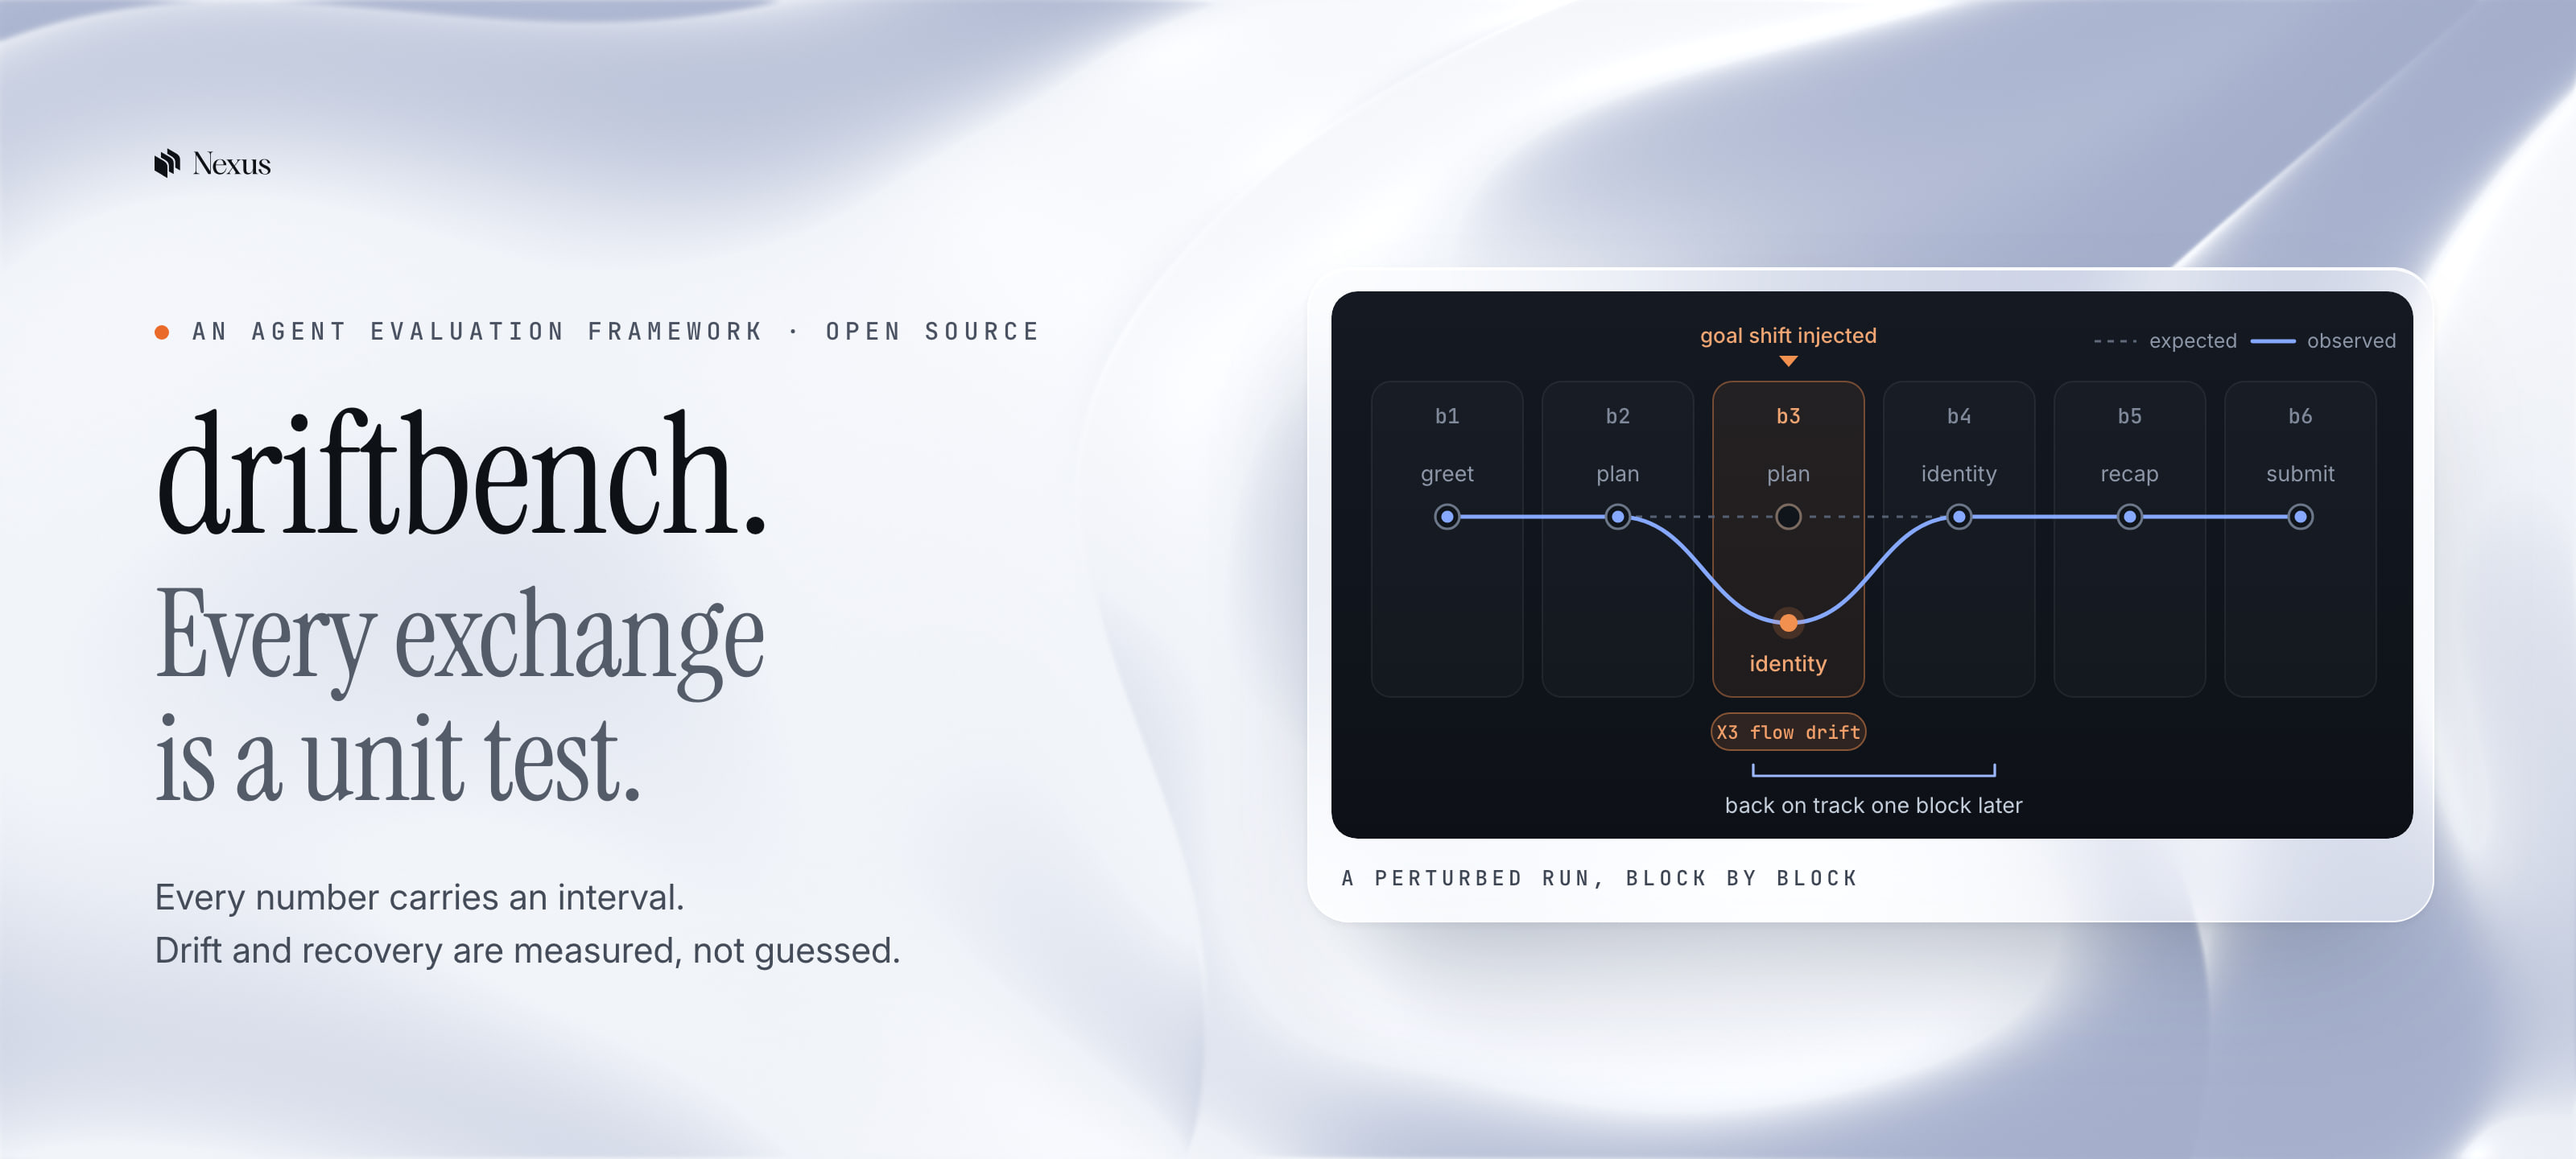
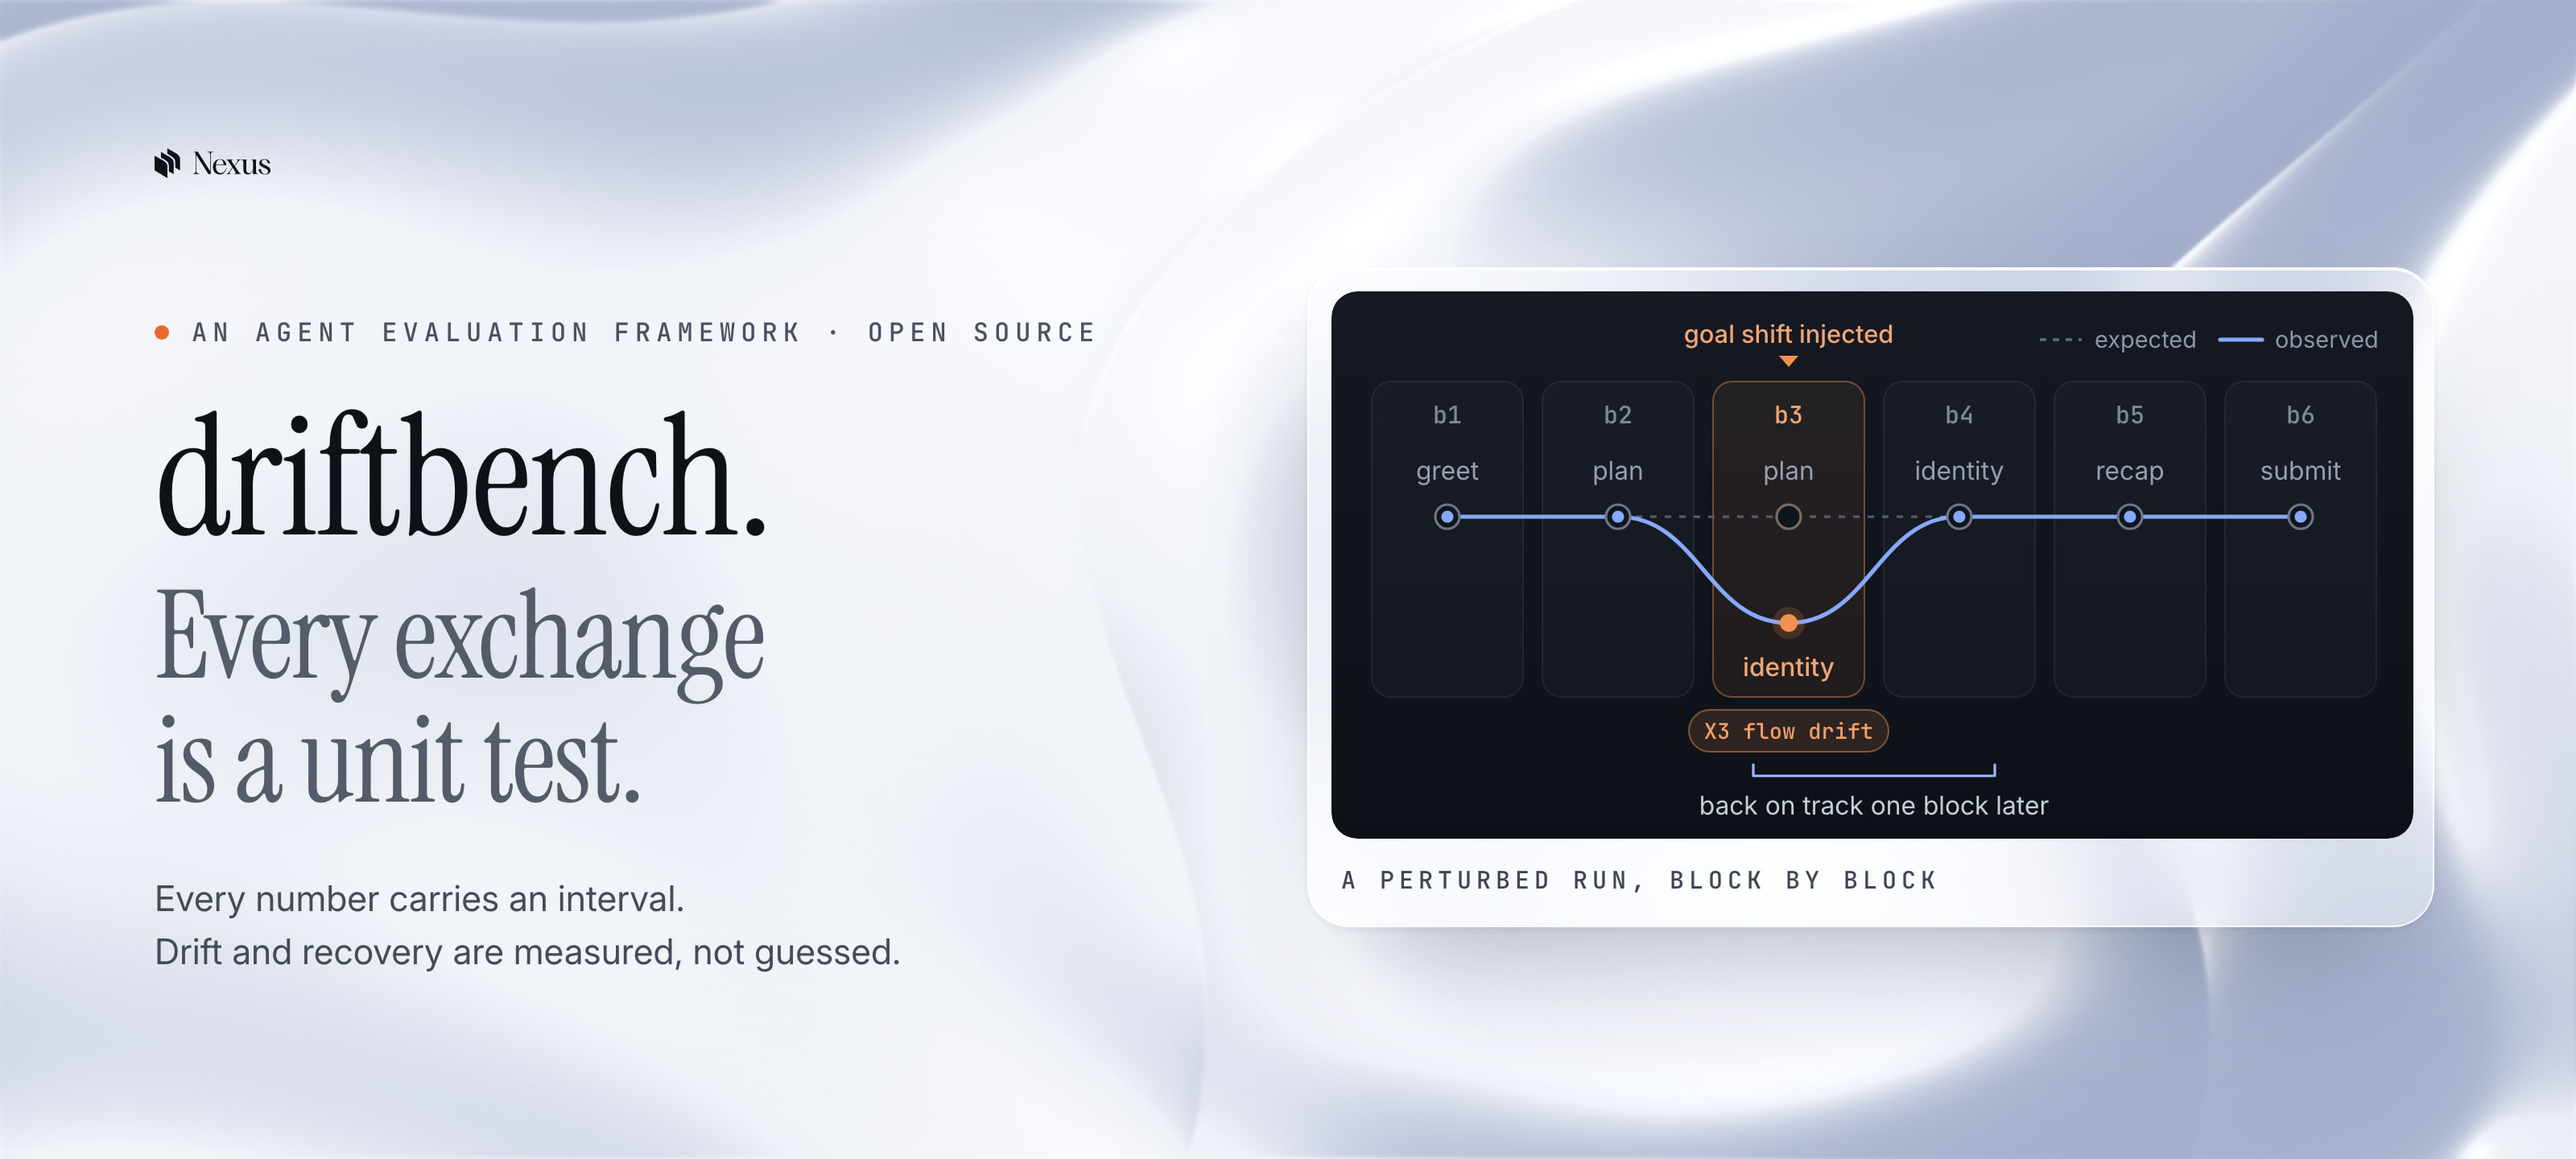
README hero: larger labels in the run panel
The block ids, step names, legend and recovery label grow so the panel
stays readable at README width.

diff --git a/.github/readme/src/hero.html b/.github/readme/src/hero.html
@@ -19,7 +19,7 @@
   .copy { position: absolute; left: 96px; top: 196px; width: 660px; }
   .eyebrow {
     display: flex; align-items: center; gap: 14px;
-    font-family: var(--mono); font-size: 15px; font-weight: 500;
+    font-family: var(--mono); font-size: 16px; font-weight: 500;
     letter-spacing: 0.22em; text-transform: uppercase; color: #4A5262;
   }
   .eyebrow .dot { width: 9px; height: 9px; border-radius: 50%; background: #EA6A2A; flex: none; }
@@ -47,7 +47,7 @@
   .panel { display: block; width: 672px; height: 340px; border-radius: 16px; }
   .card .caption {
     padding: 16px 6px 18px;
-    font-family: var(--mono); font-size: 13px; font-weight: 500;
+    font-family: var(--mono); font-size: 15px; font-weight: 500;
     letter-spacing: 0.2em; text-transform: uppercase; color: #3E4553;
   }
 </style>
@@ -74,16 +74,16 @@
       <rect x="0" y="0" width="672" height="340" rx="16" fill="url(#pbg)"/>
 
       <!-- legend -->
-      <g font-size="12.5" fill="#8C96A6">
-        <line x1="474" y1="31" x2="500" y2="31" stroke="#5F6A7B" stroke-width="1.6" stroke-dasharray="4 4"/>
-        <text x="508" y="35">expected</text>
-        <line x1="572" y1="31" x2="598" y2="31" stroke="#86A8FF" stroke-width="2.4" stroke-linecap="round"/>
-        <text x="606" y="35">observed</text>
+      <g font-size="14.5" fill="#8C96A6">
+        <line x1="440" y1="30" x2="466" y2="30" stroke="#5F6A7B" stroke-width="1.8" stroke-dasharray="4 4"/>
+        <text x="474" y="35">expected</text>
+        <line x1="552" y1="30" x2="578" y2="30" stroke="#86A8FF" stroke-width="2.6" stroke-linecap="round"/>
+        <text x="586" y="35">observed</text>
       </g>
 
       <!-- injection marker over block 3 -->
       <g>
-        <text x="284" y="32" text-anchor="middle" font-size="13" fill="#F2A673" font-weight="500">goal shift injected</text>
+        <text x="284" y="32" text-anchor="middle" font-size="15.5" fill="#F2A673" font-weight="500">goal shift injected</text>
         <path d="M 278 40 L 290 40 L 284 47 Z" fill="#F2904F"/>
       </g>
 
@@ -101,13 +101,13 @@
 
       <!-- drift chip under block 3 -->
       <g>
-        <rect x="236" y="262" width="96" height="23" rx="11.5" fill="rgba(242,144,79,0.14)" stroke="rgba(242,144,79,0.5)"/>
-        <text x="284" y="278" text-anchor="middle" font-family="JetBrains Mono, monospace" font-size="11.5" fill="#F4A06A" font-weight="500">X3 flow drift</text>
+        <rect x="222" y="260" width="124" height="26" rx="13" fill="rgba(242,144,79,0.14)" stroke="rgba(242,144,79,0.5)"/>
+        <text x="284" y="278" text-anchor="middle" font-family="JetBrains Mono, monospace" font-size="13.5" fill="#F4A06A" font-weight="500">X3 flow drift</text>
       </g>
 
       <!-- recovery bracket from block 3 to block 4 -->
       <path d="M 262 294 L 262 301 L 412 301 L 412 294" fill="none" stroke="#9DB8FF" stroke-width="1.6" stroke-linecap="round" stroke-linejoin="round"/>
-      <text x="337" y="324" text-anchor="middle" font-size="13.5" fill="#C5CFDC">back on track one block later</text>
+      <text x="337" y="325" text-anchor="middle" font-size="16" fill="#C5CFDC">back on track one block later</text>
     </svg>
     <div class="caption">A perturbed run, block by block</div>
   </div>
@@ -136,9 +136,9 @@
       fill: drift ? 'rgba(242,144,79,0.08)' : 'rgba(255,255,255,0.025)',
       stroke: drift ? 'rgba(242,144,79,0.42)' : 'rgba(255,255,255,0.07)'
     }, cols);
-    el('text', { x: cx, y: 82, 'text-anchor': 'middle', 'font-family': 'JetBrains Mono, monospace', 'font-size': 13,
+    el('text', { x: cx, y: 82, 'text-anchor': 'middle', 'font-family': 'JetBrains Mono, monospace', 'font-size': 15,
       fill: drift ? '#F2A673' : '#7F8999', 'font-weight': 500 }, cols, 'b' + (i + 1));
-    el('text', { x: cx, y: 118, 'text-anchor': 'middle', 'font-size': 13.5, fill: '#8C96A6' }, cols, step);
+    el('text', { x: cx, y: 117, 'text-anchor': 'middle', 'font-size': 16, fill: '#959FAF' }, cols, step);
     // expected node
     el('circle', { cx, cy: 140, r: 7.5, fill: '#10151C', stroke: drift ? '#7A6A60' : '#6B7688', 'stroke-width': 1.6 }, nodes);
     if (!drift) {
@@ -146,7 +146,7 @@
     } else {
       el('circle', { cx, cy: 206, r: 10, fill: 'rgba(242,144,79,0.18)' }, nodes);
       el('circle', { cx, cy: 206, r: 5.5, fill: '#F2904F' }, nodes);
-      el('text', { x: cx, y: 236, 'text-anchor': 'middle', 'font-size': 13.5, fill: '#F2A673', 'font-weight': 500 }, nodes, 'identity');
+      el('text', { x: cx, y: 239, 'text-anchor': 'middle', 'font-size': 16, fill: '#F2A673', 'font-weight': 500 }, nodes, 'identity');
     }
   });
 
